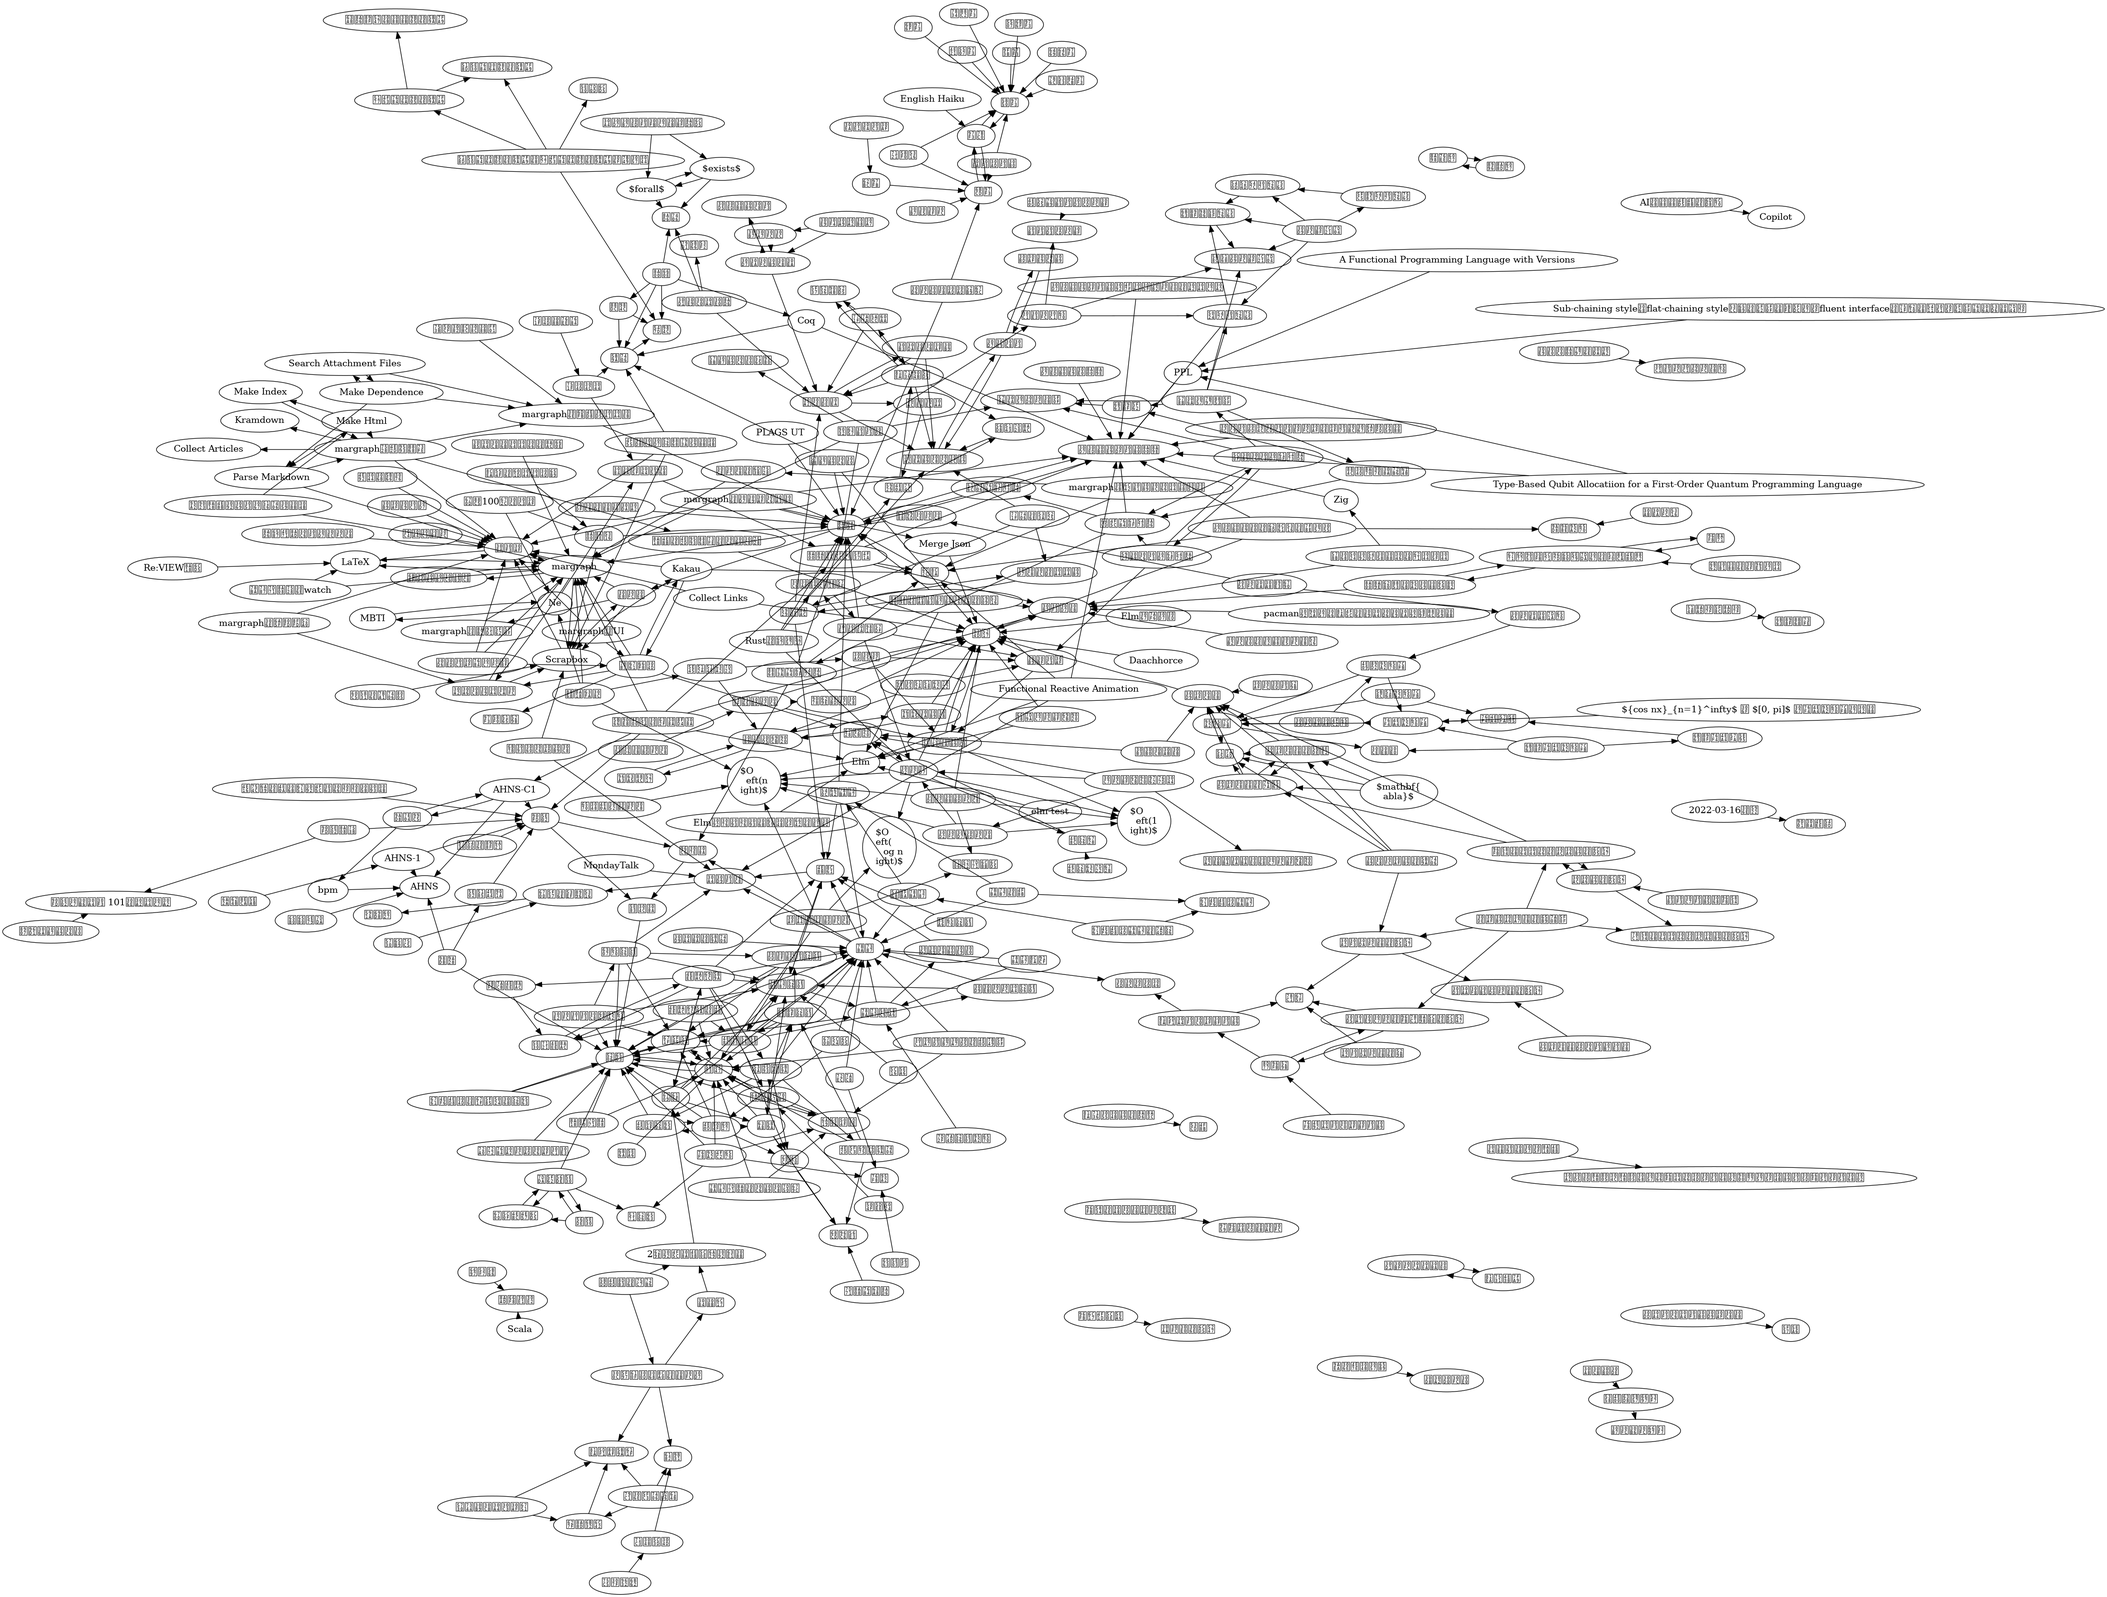
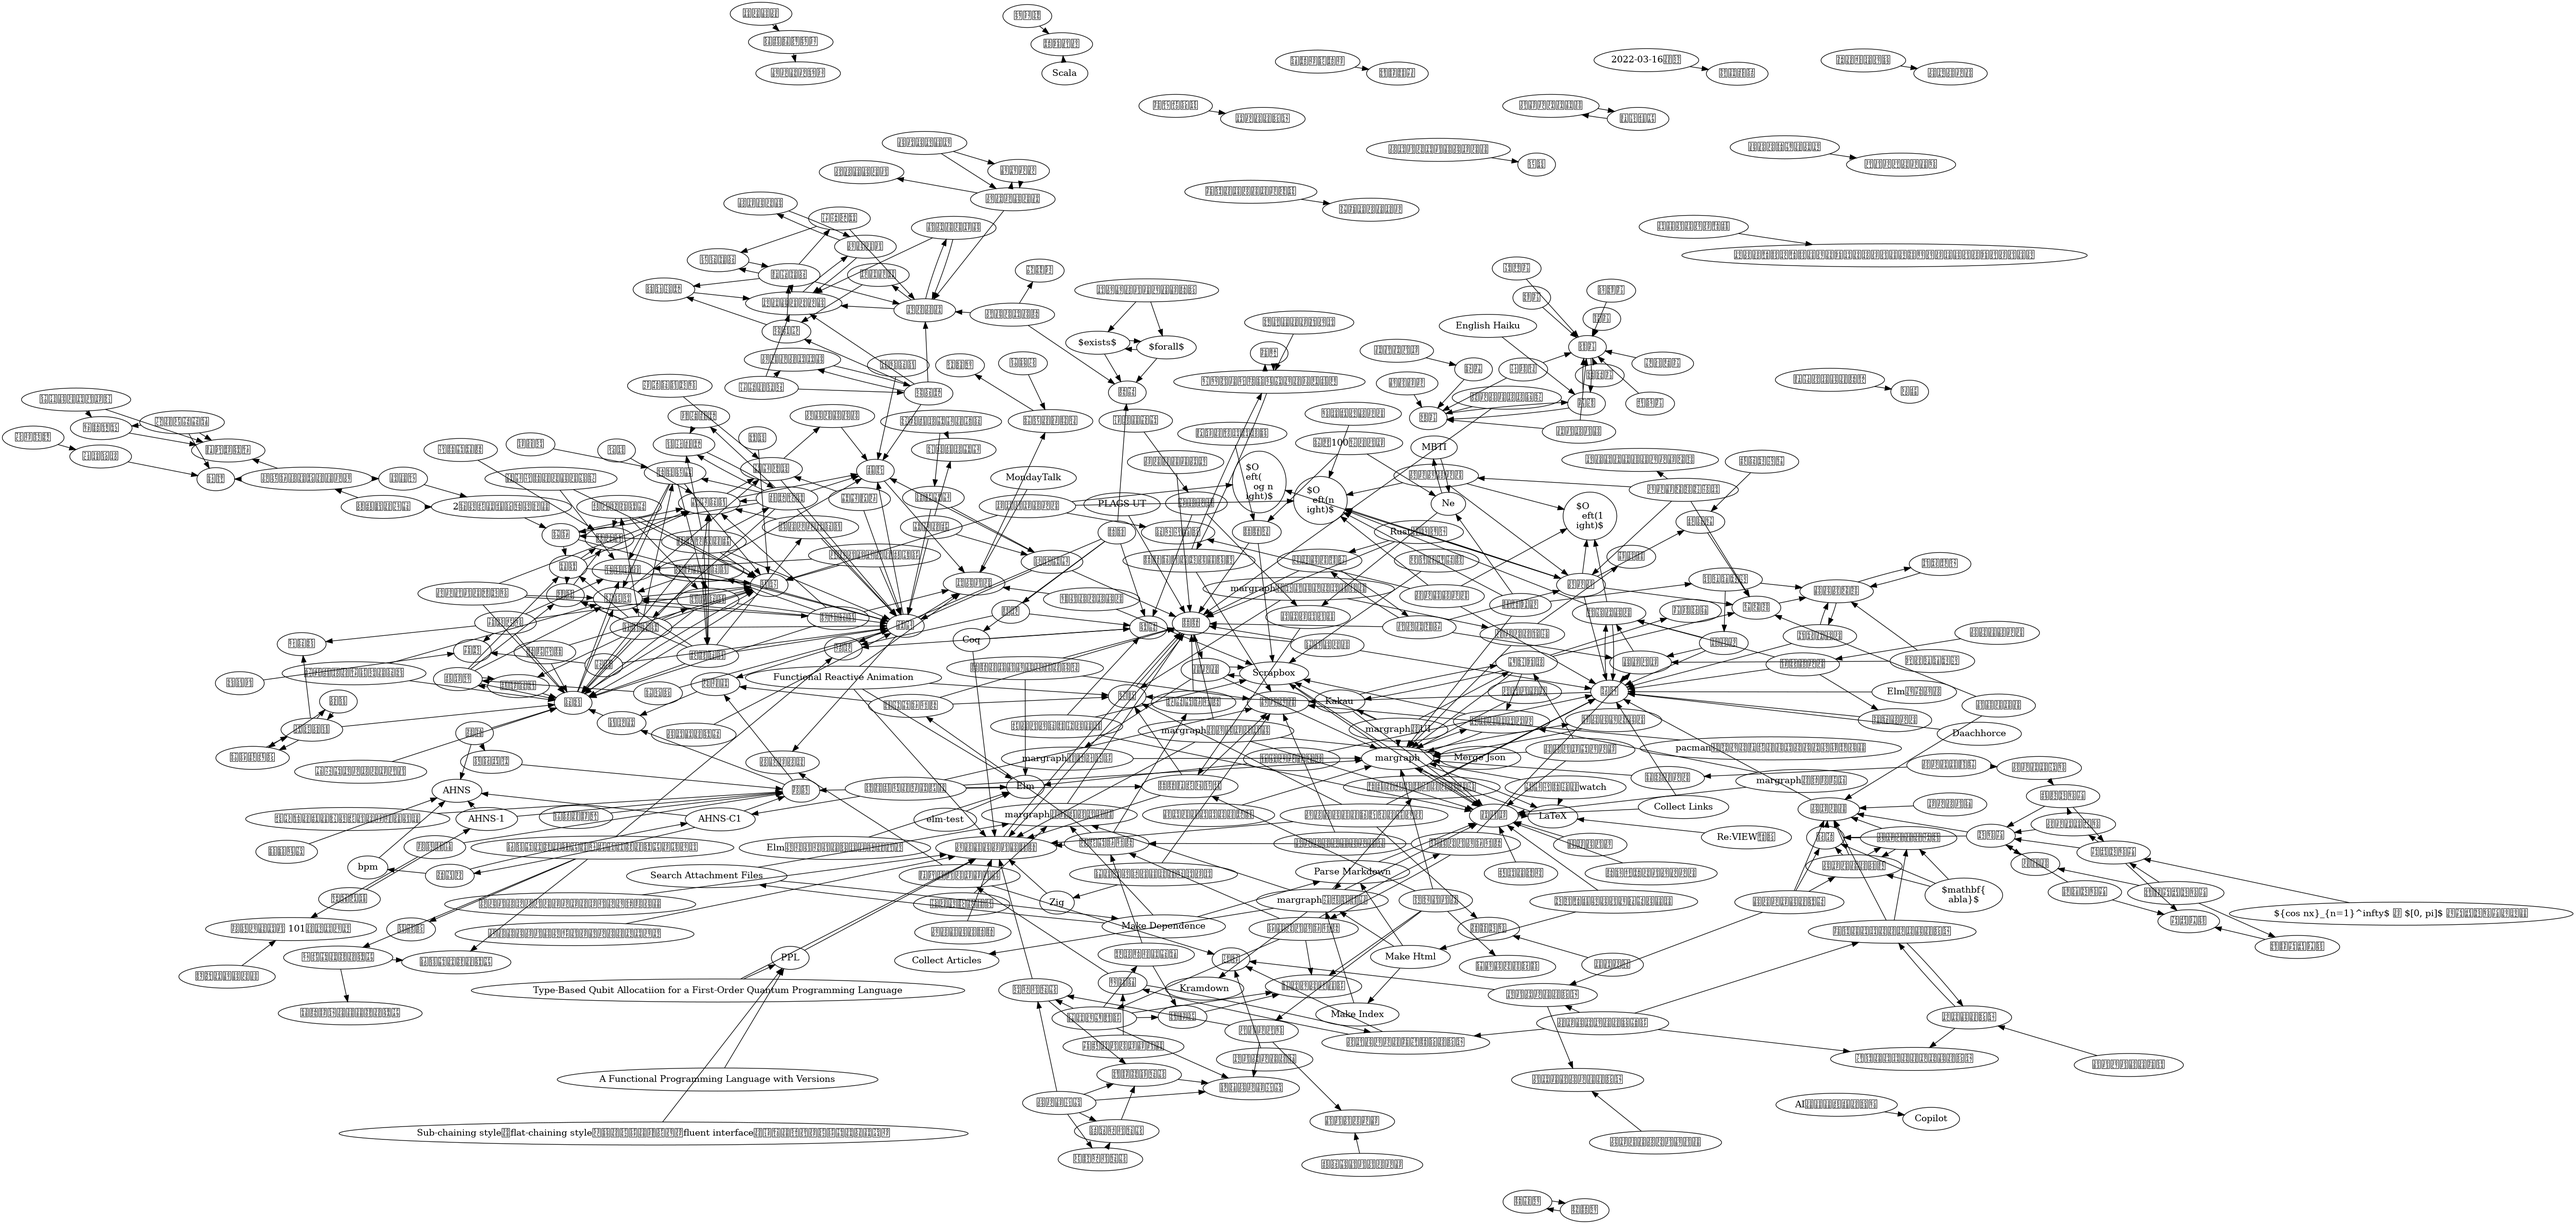
deploy: ea51a10b9912f83ea2ea8b7877eb4b252105f264

diff --git a/other/gather.html b/other/gather.html
@@ -1,0 +1,179 @@
+<!DOCTYPE html>
+<html lang="ja">
+  <head>
+    <meta charset="utf-8">
+    <meta name="viewport" content="width=device-width, initial-scale=1">
+    <link rel="stylesheet" href="https://cdn.jsdelivr.net/npm/bootstrap@5.1.3/dist/css/bootstrap.min.css">
+    <link rel="stylesheet" href="https://cdn.jsdelivr.net/npm/bootstrap-dark-5@1.1.3/dist/css/bootstrap-nightfall.min.css" media="(prefers-color-scheme: dark)">
+    <link rel="stylesheet" href="https://cdnjs.cloudflare.com/ajax/libs/highlight.js/11.3.1/styles/base16/ashes.min.css">
+    <link rel="stylesheet" href="../style.css" type="text/css">
+    <title>纏める</title>
+    <meta NAME="robots" CONTENT="noindex,nofollow">
+  </head>
+  <body>
+    
+    <nav class="navbar sticky-top bg-body" style="--bs-breadcrumb-divider: '>';" aria-label="breadcrumb">
+      <div class="container" style="max-width: 40em;">
+        <ol class="breadcrumb">
+          
+            <li class="breadcrumb-item"><a href="../index.html">margraph</a></li>
+          
+            <li class="breadcrumb-item"><a href="../other/index.html">other</a></li>
+          
+          <li class="breadcrumb-item">纏める</li>
+        </ol>
+      </div>
+    </nav>
+
+    <article class="container" style="max-width: 40em;">
+
+      <h1>纏める</h1>
+
+      
+        <div class="contents">
+        
+            
+              <div><ul>
+  <li>プログラムを纏める
+    <ul>
+      <li>プログラムのアーキテクチャって、沢山のプログラムを扱う際にどう切れ目を作って分割するかに掛かってる
+        <ul>
+          <li>マイクロアーキテクチャはWebAPIとかの形で切り分ける</li>
+          <li>オブジェクト指向はクラス毎にカプセル化して切り分ける</li>
+        </ul>
+      </li>
+      <li>切り離しすぎると、余計なコストがかかって大変になる
+        <ul>
+          <li>簡単なプログラムにマイクロサービスアーキテクチャを使うような事例</li>
+        </ul>
+      </li>
+    </ul>
+  </li>
+  <li>人を纏める
+    <ul>
+      <li>4人とかのチームになって来ると、リーダーが必要になる
+        <ul>
+          <li>情報をたくさん持つ人に色々集まって来る</li>
+        </ul>
+      </li>
+      <li>10人を超えるようなチームだと、リーダー1人では処理しきれなくなる
+        <ul>
+          <li>人の多さと言うよりは仕事の多さの方が重要なファクターかも</li>
+          <li>リーダー補佐を作ったり、部門ごとに切り分けて、その部分のリーダーを立てる</li>
+        </ul>
+      </li>
+      <li>大きな組織の場合、何階層もリーダーが居たり、相互の交流を求めて複雑な体系を取ったりする</li>
+      <li>マネジメント階層って実質生産に寄与しないので、減らしたい
+        <ul>
+          <li>kintoneなんかは、情報共有のコストを減らそうとしている</li>
+        </ul>
+      </li>
+    </ul>
+  </li>
+</ul>
+</div>
+            
+          
+        </div>
+      
+
+      
+
+      
+      
+      
+      <hr />
+
+      
+        <div class="hood-link">
+          <div class="row text-center">
+            <div class="col">
+              
+                前の記事<br />
+                <a href="../other/game-module.html">ゲームのモジュール化</a>
+              
+            </div>
+            <div class="col">
+              
+                目次<br />
+                <a href="../other/index.html">other</a>
+              
+            </div>
+            <div class="col">
+              
+                次の記事<br />
+                <a href="../other/gengoka.html">言語化</a>
+              
+            </div>
+          </div>
+        </div>
+      
+
+      <div class="d-flex flex-row-reverse">
+        
+          <button type="button" class="btn btn-outline-primary btn-sm" onclick="window.location.href='https://github.com/soukouki/margraph/edit/master/src/other/gather.md';">Edit</button>
+        
+        
+      </div>
+
+      
+      <div class="link-network">
+        
+          <div class="row flex-nowrap overflow-auto">
+            <div class="col-4">
+              <div class="card h-100">
+                <div class="card-body">
+                  <h5 class="card-title fs-6"><a href="../long-tweets/2021-11-25.html">ノートの活用</a></h5>
+                  <p class="card-text">人が覚えられる量には明らかに限界がある(例えば保育園や小学校の...</p>
+                </div>
+              </div>
+            </div>
+            
+              <div class="col-4">
+                <div class="card h-100">
+                  <div class="card-body">
+                    <h5 class="card-title fs-6"><a href="../margraph/01-note.html">margraph</a></h5>
+                    <p class="card-text">named by sizumita - Scrapboxがgo...</p>
+                  </div>
+                </div>
+              </div>
+            
+              <div class="col-4">
+                <div class="card h-100">
+                  <div class="card-body">
+                    <h5 class="card-title fs-6"><a href="../margraph/margraph-why.html">margraphに求められていること</a></h5>
+                    <p class="card-text">本質的に求められていることを書く - 様々な知識や経験を溜めて...</p>
+                  </div>
+                </div>
+              </div>
+            
+          </div>
+        
+      </div>
+      
+
+    </article>
+
+    <script src="https://cdn.jsdelivr.net/npm/bootstrap@5.1.3/dist/js/bootstrap.bundle.min.js" integrity="sha384-ka7Sk0Gln4gmtz2MlQnikT1wXgYsOg+OMhuP+IlRH9sENBO0LRn5q+8nbTov4+1p" crossorigin="anonymous"></script>
+    <script>
+      document.addEventListener('DOMContentLoaded', (event) => {
+        document.querySelectorAll('pre code').forEach((el) => {
+          hljs.highlightElement(el);
+        });
+      });
+    </script>
+    <script src="https://cdnjs.cloudflare.com/ajax/libs/highlight.js/11.3.1/highlight.min.js"></script>
+    <script>
+      MathJax = {
+        tex: {
+          inlineMath: [['$', '$'], ['\\(', '\\)']],
+        },
+        chtml: { 
+          displayAlign: 'left',
+        },
+      };
+    </script>
+    <script id="MathJax-script" async src="https://cdn.jsdelivr.net/npm/mathjax@3/es5/tex-chtml.js">
+    </script>
+  </body>
+</html>

diff --git a/long-tweets/2021-11-25.html b/long-tweets/2021-11-25.html
@@ -37,7 +37,7 @@
             
           
             
-              <div>しかし、今までの学校生活でノートをほぼ振り返って来なかったことから分かるように、それを活用するためには適当な手段で残すのでは足りない(纏めることで記憶が整理されるメリットはあるが、今回は置いておく)</div>
+              <div>しかし、今までの学校生活でノートをほぼ振り返って来なかったことから分かるように、それを活用するためには適当な手段で残すのでは足りない(<a href="../other/gather.html">纏める</a>ことで記憶が整理されるメリットはあるが、今回は置いておく)</div>
             
           
             
@@ -92,6 +92,18 @@
 
       
       <div class="link-network">
+        
+          <div class="row flex-nowrap overflow-auto">
+            <div class="col-4">
+              <div class="card h-100">
+                <div class="card-body">
+                  <h5 class="card-title fs-6"><a href="../other/gather.html">纏める</a></h5>
+                  <p class="card-text">- プログラムを纏める   - プログラムのアーキテクチャって...</p>
+                </div>
+              </div>
+            </div>
+            
+          </div>
         
           <div class="row flex-nowrap overflow-auto">
             <div class="col-4">

diff --git a/margraph/01-note.html b/margraph/01-note.html
@@ -352,6 +352,15 @@
               <div class="col-4">
                 <div class="card h-100">
                   <div class="card-body">
+                    <h5 class="card-title fs-6"><a href="../other/gather.html">纏める</a></h5>
+                    <p class="card-text">- プログラムを纏める   - プログラムのアーキテクチャって...</p>
+                  </div>
+                </div>
+              </div>
+            
+              <div class="col-4">
+                <div class="card h-100">
+                  <div class="card-body">
                     <h5 class="card-title fs-6"><a href="../margraph/margraph-why.html">margraphに求められていること</a></h5>
                     <p class="card-text">本質的に求められていることを書く - 様々な知識や経験を溜めて...</p>
                   </div>

diff --git a/margraph/margraph-why.html b/margraph/margraph-why.html
@@ -182,6 +182,15 @@
               <div class="col-4">
                 <div class="card h-100">
                   <div class="card-body">
+                    <h5 class="card-title fs-6"><a href="../other/gather.html">纏める</a></h5>
+                    <p class="card-text">- プログラムを纏める   - プログラムのアーキテクチャって...</p>
+                  </div>
+                </div>
+              </div>
+            
+              <div class="col-4">
+                <div class="card h-100">
+                  <div class="card-body">
                     <h5 class="card-title fs-6"><a href="../margraph/01-note.html">margraph</a></h5>
                     <p class="card-text">named by sizumita - Scrapboxがgo...</p>
                   </div>

diff --git a/other/gengoka.html b/other/gengoka.html
@@ -62,7 +62,7 @@
             <div class="col">
               
                 前の記事<br />
-                <a href="../other/game-module.html">ゲームのモジュール化</a>
+                <a href="../other/gather.html">纏める</a>
               
             </div>
             <div class="col">

diff --git a/other/index.html b/other/index.html
@@ -101,6 +101,10 @@
           </div>
         
           <div class="list-group-item">
+            <a href="../other/gather.html">纏める</a>
+          </div>
+        
+          <div class="list-group-item">
             <a href="../other/gengoka.html">言語化</a>
           </div>
         

diff --git a/other/game-module.html b/other/game-module.html
@@ -80,7 +80,7 @@
             <div class="col">
               
                 次の記事<br />
-                <a href="../other/gengoka.html">言語化</a>
+                <a href="../other/gather.html">纏める</a>
               
             </div>
           </div>
